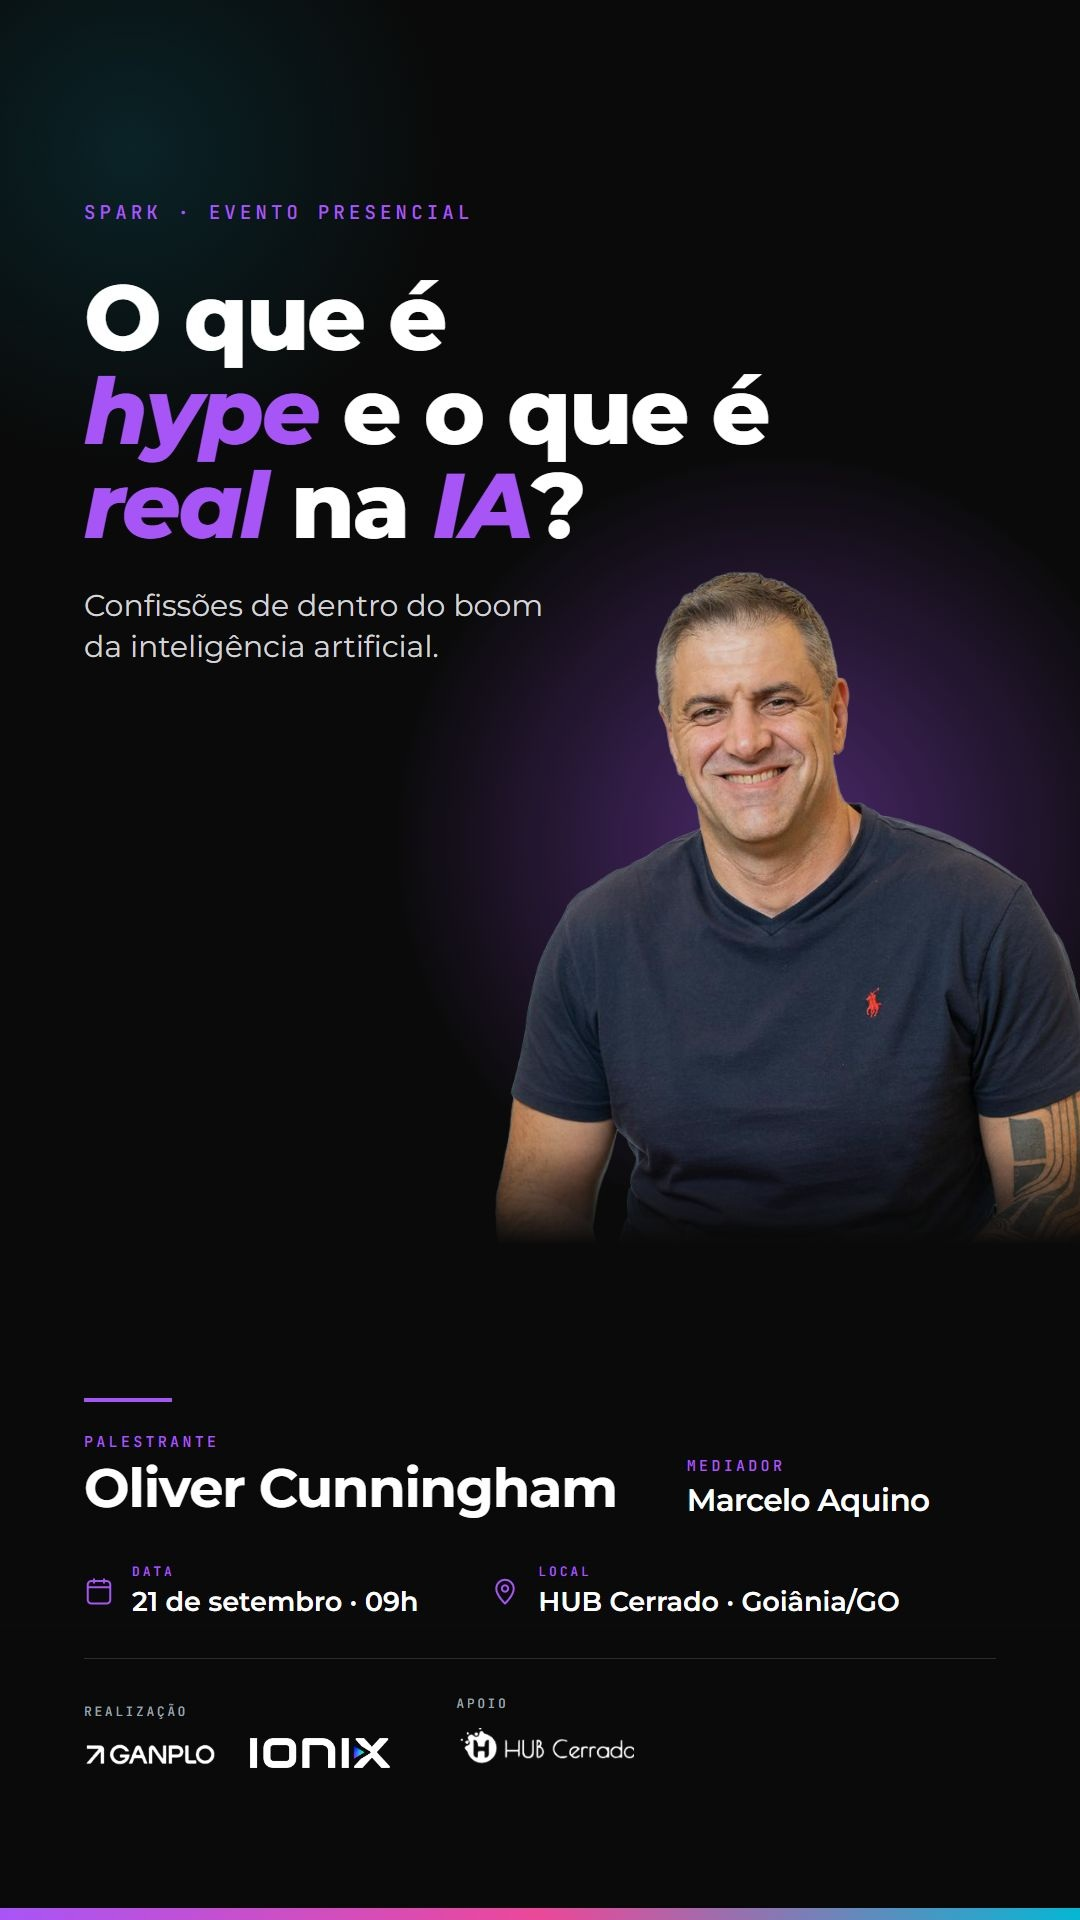
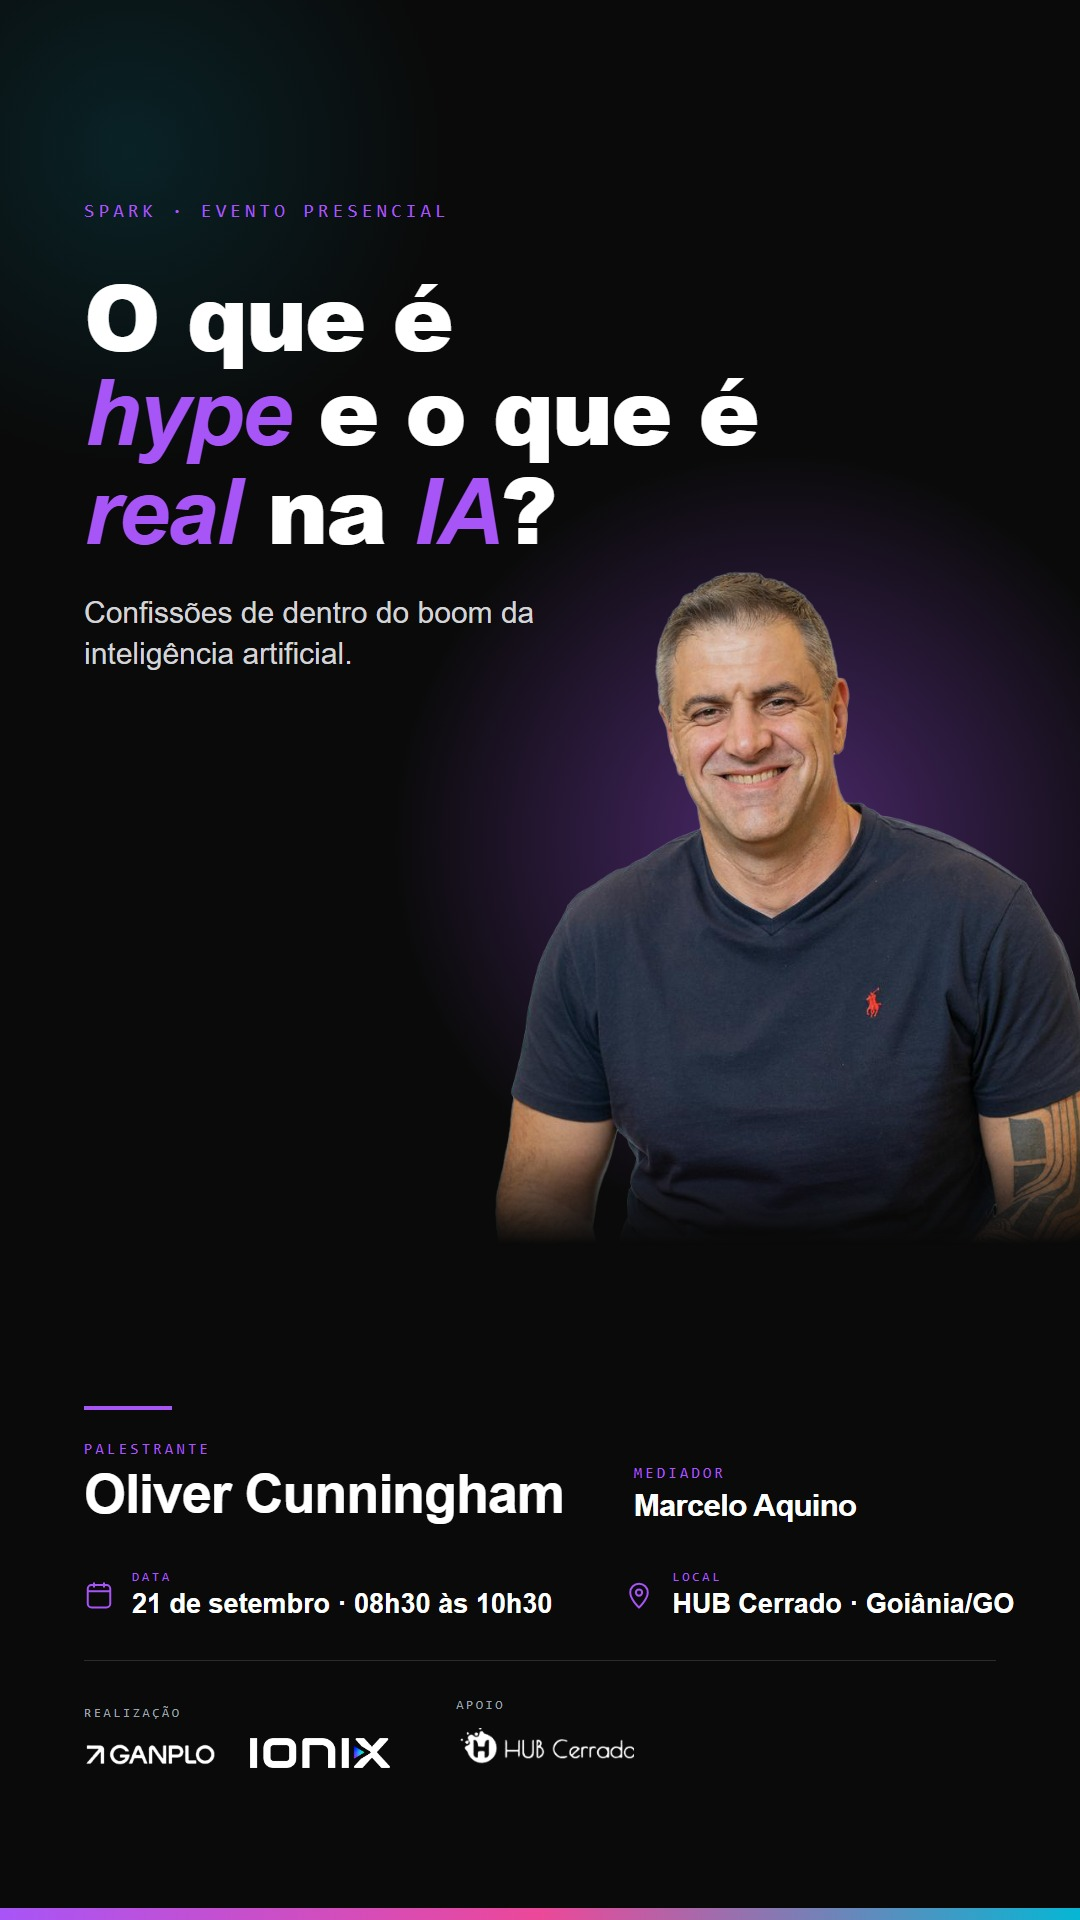
fix: atualiza horario do Spark para 08h30

diff --git a/index.html b/index.html
@@ -8,7 +8,7 @@
 
 <meta property="og:type" content="website">
 <meta property="og:title" content="O que é hype e o que é real na IA? · Spark by Ionix">
-<meta property="og:description" content="21 de setembro, 09h · HUB Cerrado, Goiânia/GO. Palestra com Oliver Cunningham, diagnóstico ao vivo e um roteiro prático de IA para a sua empresa.">
+<meta property="og:description" content="21 de setembro, das 08h30 às 10h30 · HUB Cerrado, Goiânia/GO. Palestra com Oliver Cunningham, diagnóstico ao vivo e um roteiro prático de IA para a sua empresa.">
 <meta property="og:image" content="assets/evento-goiania.jpg">
 <meta property="og:locale" content="pt_BR">
 <meta name="twitter:card" content="summary_large_image">
@@ -49,7 +49,7 @@
     <div class="infobar">
       <div class="info-item">
         <svg width="18" height="18" viewBox="0 0 24 24" fill="none" stroke="currentColor" stroke-width="1.8"><rect x="3" y="4" width="18" height="18" rx="3"/><path d="M3 9h18M8 2v4M16 2v4"/></svg>
-        <span><b>21 de setembro</b> · 09h</span>
+        <span><b>21 de setembro</b> · 08h30 às 10h30</span>
       </div>
       <div class="info-item">
         <svg width="18" height="18" viewBox="0 0 24 24" fill="none" stroke="currentColor" stroke-width="1.8"><path d="M12 22s7-6.5 7-12a7 7 0 1 0-14 0c0 5.5 7 12 7 12z"/><circle cx="12" cy="10" r="2.5"/></svg>

diff --git a/arte/arte.html b/arte/arte.html
@@ -81,7 +81,7 @@
   .info{ display:flex; align-items:center; gap:18px; }
   .info svg{ flex:0 0 auto; color:var(--violet); }
   .info .rotulo{ font-size:13px; }
-  .info .valor{ margin-top:5px; font-size:24px; font-weight:600; }
+  .info .valor{ margin-top:5px; font-size:24px; font-weight:600; white-space:nowrap; }
 
   .creditos{
     display:flex; align-items:flex-end; gap:66px;
@@ -135,7 +135,7 @@
         <svg width="30" height="30" viewBox="0 0 24 24" fill="none" stroke="currentColor" stroke-width="1.6"><rect x="3" y="4" width="18" height="18" rx="3"/><path d="M3 9h18M8 2v4M16 2v4"/></svg>
         <div>
           <div class="rotulo">Data</div>
-          <div class="valor">21 de setembro · 09h</div>
+          <div class="valor">21 de setembro · 08h30 às 10h30</div>
         </div>
       </div>
       <div class="info">

diff --git a/arte/gerar_artes.py b/arte/gerar_artes.py
@@ -1,6 +1,6 @@
 # Gera as variações de formato da arte do evento a partir de arte.html.
 # Cada formato só sobrescreve as medidas que mudam — o desenho é o mesmo.
-import io, os, subprocess, sys
+import io, os, subprocess, sys, time
 from PIL import Image
 
 BASE = os.path.dirname(os.path.abspath(__file__))
@@ -69,10 +69,24 @@ for nome, (w, h, extra) in FORMATOS.items():
         continue
 
     png = os.path.join(BASE, '_fmt_%s.png' % nome)
-    subprocess.run([CHROME, '--headless', '--disable-gpu', '--hide-scrollbars',
-                    '--virtual-time-budget=9000', '--window-size=%d,%d' % (w, h),
-                    '--screenshot=' + png, 'file:///' + tmp.replace('\\', '/')],
-                   capture_output=True)
+    if os.path.exists(png):
+        os.remove(png)
+
+    result = subprocess.run([
+        CHROME, '--headless=new', '--disable-gpu', '--hide-scrollbars', '--no-sandbox',
+        '--force-device-scale-factor=1', '--virtual-time-budget=9000',
+        '--window-size=%d,%d' % (w, h), '--screenshot=' + png,
+        'file:///' + tmp.replace('\\', '/')
+    ], capture_output=True, text=True)
+
+    # Em algumas instalações do Chrome no Windows, o processo principal termina
+    # antes de o arquivo ser efetivamente gravado. Nunca reutilize um PNG antigo.
+    for _ in range(50):
+        if os.path.exists(png) and os.path.getsize(png) > 0:
+            break
+        time.sleep(.1)
+    else:
+        raise RuntimeError('Falha ao gerar %s: %s' % (nome, result.stderr.strip()))
 
     jpg = os.path.join(BASE, 'arte-%s.jpg' % nome)
     Image.open(png).convert('RGB').save(jpg, quality=92, optimize=True, progressive=True)

diff --git a/README.md b/README.md
@@ -2,7 +2,7 @@
 
 Landing do evento presencial **"O que é hype e o que é real na IA?"** — palestra do
 Oliver Cunningham, com mediação de Marcelo Aquino, no HUB Cerrado, Goiânia/GO,
-21 de setembro, 09h. Realização Ganplo · Ionix.
+21 de setembro, das 08h30 às 10h30. Realização Ganplo · Ionix.
 
 Reconstrução da landing anterior (`papaya-squirrel-5dc4d7.netlify.app`) na
 **identidade visual canônica da Ionix**: violeta `#A855F7`, fundo `#0A0A0A`,
